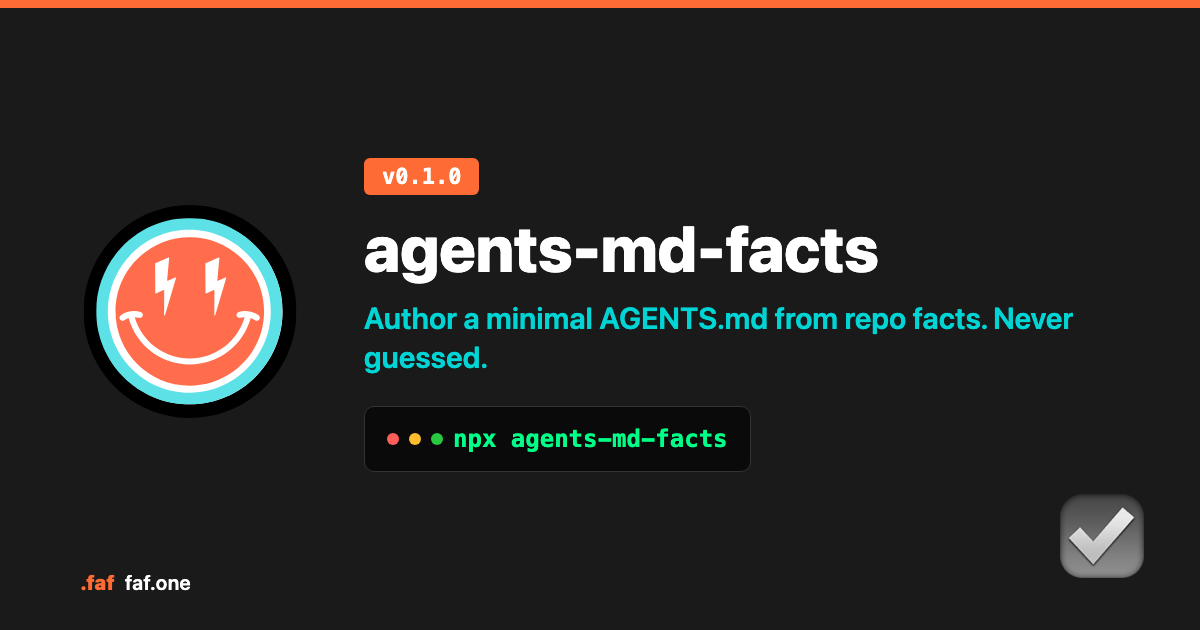
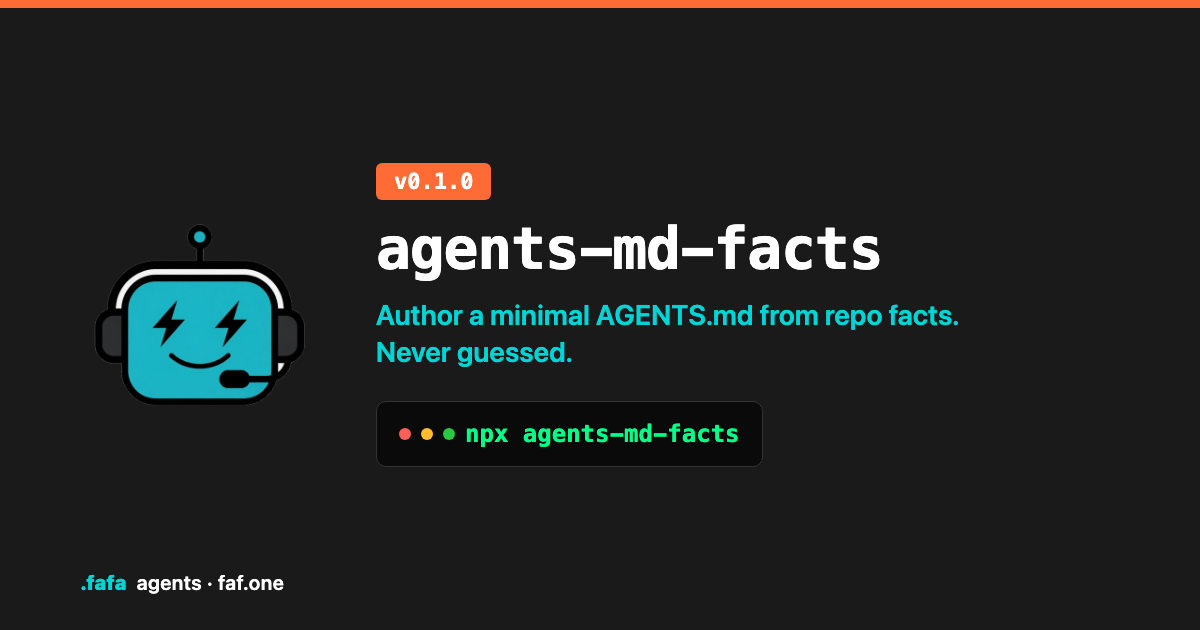
blog(agents-md-facts): hero uses FAFA mark, not DotFaf smiley
AGENTS-lane release card: rounded-box FAFA agent logo as hub;
footer .fafa · agents. Smiley belongs to context, not this post.

diff --git a/src/routes/blog/agents-md-facts/+page.svelte b/src/routes/blog/agents-md-facts/+page.svelte
@@ -57,7 +57,7 @@ npx agents-md-facts`;
 	<div class="hero-image">
 		<img
 			src="/blog/agents-md-facts-hero.png"
-			alt="agents-md-facts v0.1.0 — Author a minimal AGENTS.md from repo facts. Never guessed."
+			alt="agents-md-facts v0.1.0 — FAFA agent mark. Author a minimal AGENTS.md from repo facts. Never guessed."
 		/>
 	</div>
 
